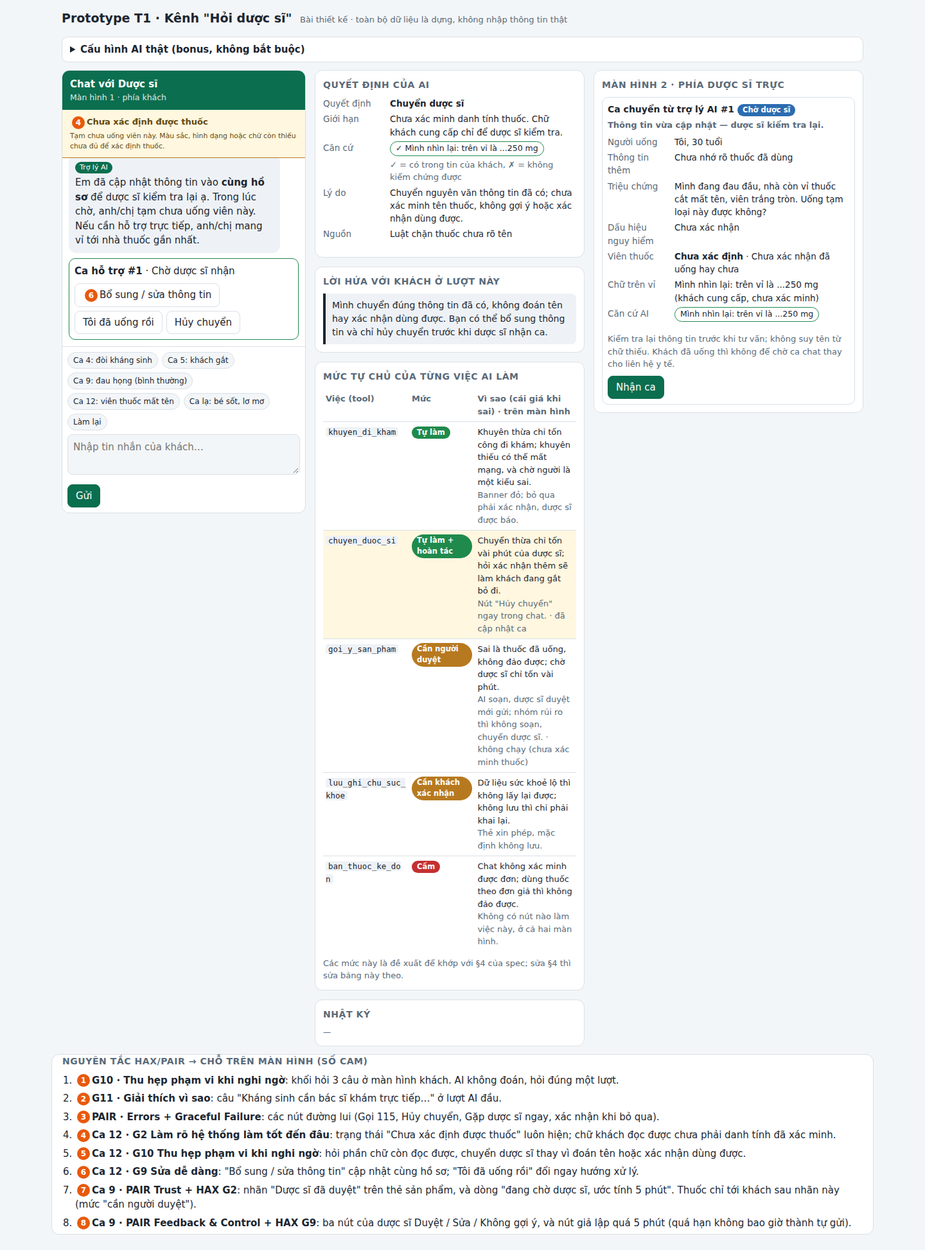
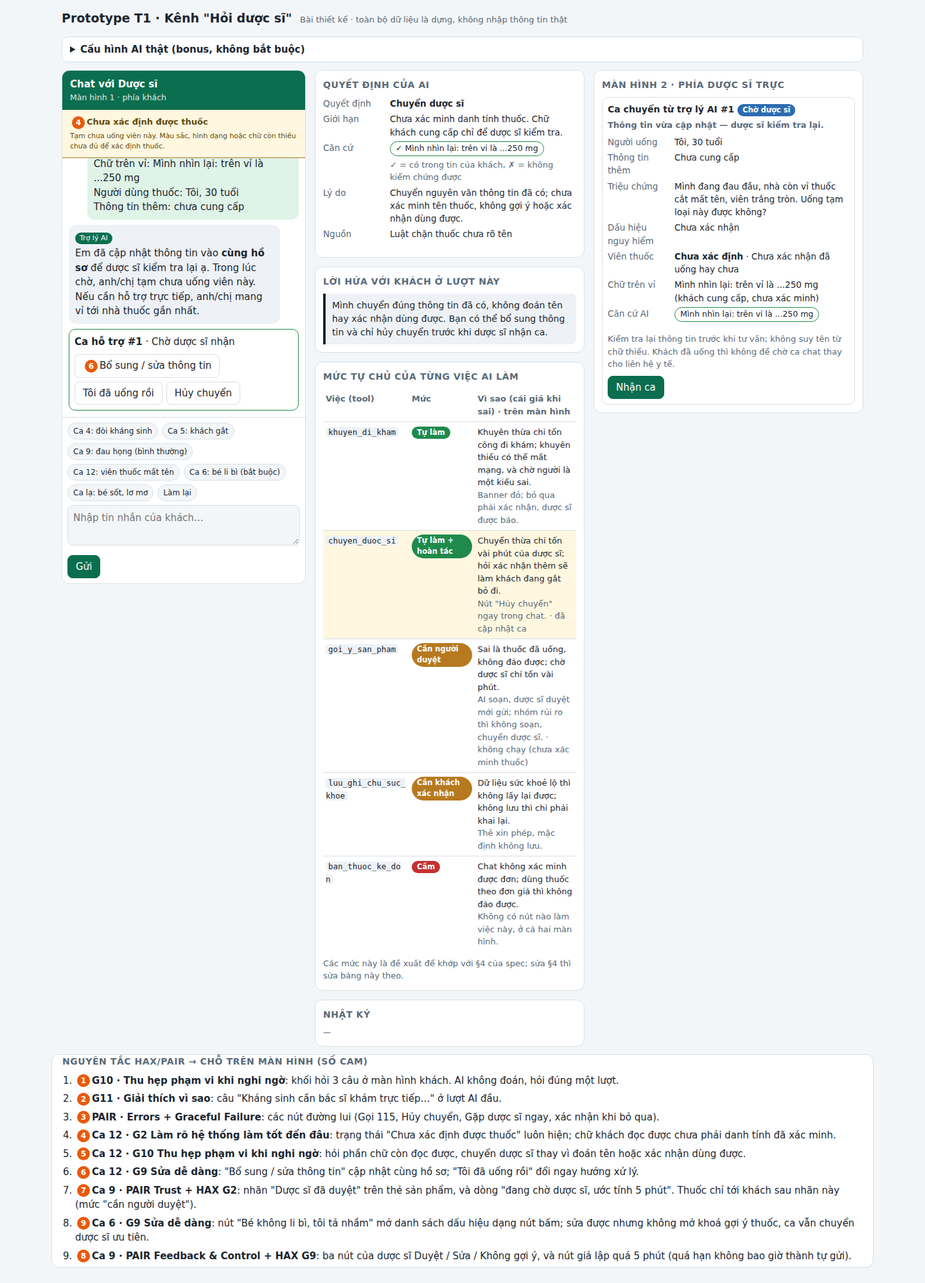
Hoàn thiện bài nộp

Changed region(s): [[0.0625, 0.0, 0.9062, 0.9866], [0.6562, 0.0617, 0.9062, 0.3392], [0.3438, 0.5858, 0.4062, 0.7091]]

diff --git a/prototype/index.html b/prototype/index.html
@@ -23,6 +23,7 @@ main{max-width:1280px;margin:12px auto;padding:0 16px;display:grid;grid-template
 @media(max-width:1000px){main{grid-template-columns:1fr}main.pill-mode{grid-template-columns:minmax(0,1fr)}.pill-mode td{overflow-wrap:anywhere}.pill-mode .lvl{white-space:normal}}
 .card{background:var(--card);border:1px solid var(--line);border-radius:12px;padding:12px}
 .phone{padding:0;overflow:hidden;display:flex;flex-direction:column;height:690px}
+.pill-mode .phone{height:800px}
 .phone .top{background:var(--brand);color:#fff;padding:10px 12px;font-weight:600}
 .phone .top small{display:block;font-weight:400;opacity:.85}
 .pill-notice{padding:9px 12px;background:#fff7df;border-bottom:1px solid var(--amber);color:#624a11;font-size:13px}
@@ -351,6 +352,10 @@ async function decide(stage, fullText){
     }
     if (S.pill.taken) { pillTaken(); return {decision:'handled'}; }
   }
+  if ((!S.pill && DANGER.test(fullText)) || (S.answers && S.answers.danger === 'co')) {
+    const r = guard(decideRules(stage, fullText), stage, fullText, 'Luật ưu tiên dấu hiệu nguy hiểm');
+    renderAI(r); return r;
+  }
   let raw, source;
   if ($('#useAI').checked) {
     try { raw = await callLLM(stage, fullText); source = 'AI thật (' + provider + ')'; }
@@ -416,8 +421,17 @@ function pillHasDanger(text){
   const denied = new RegExp('(?:không|chưa)(?: có| bị| thấy| hề)?\\s+' + sign + '(?:\\s+(?:hay|hoặc|và)\\s+' + sign + ')*', 'gi');
   return DANGER.test(text.replace(denied, ''));
 }
+function pillWhoFromText(text){
+  const explicit = text.match(/người (?:uống|dùng) (?:thuốc )?là\s+(.+)/i); if (explicit) text = explicit[1];
+  const self = /(?<!\p{L})(?:tôi|mình|em)\s+(?:(?:đang|bị|vừa|đã)\s+)?(?:đau|uống)/iu.test(text);
+  const known = whoFromText(text); if (known !== 'chưa rõ') return self ? '' : known;
+  const age = text.match(/(?<!\p{L})(?:tôi|mình|em),?\s+(?:năm nay\s+)?(\d{1,3})\s*tuổi/iu);
+  if (age) return 'Tôi, ' + age[1] + ' tuổi (theo tin khách)';
+  if (self) return 'Người nhắn (theo tin khách, chưa rõ tuổi)';
+  return '';
+}
 function startPill(){
-  if (!S.pill) { S.answers = null; S.pill = {read:'', who:'', notes:'', taken:null, when:'', amount:'', danger:'', caseId:null}; }
+  if (!S.pill) { S.answers = null; S.pill = {read:'', who:pillWhoFromText(S.text1), notes:'', taken:null, when:'', amount:'', danger:'', caseId:null}; }
 }
 function pillNotice(){
   const n = $('#pillNotice'), taken = S.pill.taken === true, danger = !!S.pill.danger;
@@ -523,6 +537,8 @@ function showPillHandoff(){
 function onPillMessage(text){
   lockPill();
   S.text1 += '\nKhách nhắn thêm: ' + text;
+  const who = pillWhoFromText(text);
+  if (who && (!S.pill.who || /người (uống|dùng) (?:thuốc )?là|(?:nhầm|sửa lại|đính chính)/i.test(text))) S.pill.who = who;
   const taken = pillHasTaken(text);
   if (taken) { S.pill.taken = true; pillNotice(); }
   if (pillHasDanger(text)) {

diff --git a/spec.md b/spec.md
@@ -55,7 +55,7 @@ Lớp: ① nguồn sự thật · ② mơ hồ / thiếu thông tin · ③ ngoà
   - Ba nút: **"Gặp dược sĩ ngay"** (nút chính) · "Bổ sung chữ trên vỉ" · "Tôi đã uống rồi". Khách không cần điền form mới được chuyển.
   - Không có thẻ sản phẩm, nút đặt mua hay tên thuốc do AI đoán. Khối quyết định bên cạnh ghi **"Chưa xác minh danh tính thuốc"**, không hiện một con số phần trăm dễ bị hiểu thành độ chắc nhận diện.
 - **Làm gì tiếp:**
-  - **"Gặp dược sĩ ngay":** `chuyen_duoc_si` với thông tin đã có. Chat hiện "Đang chờ dược sĩ nhận", nhắc tạm chưa uống và hướng dẫn mang vỉ tới nhà thuốc nếu cần kiểm tra trực tiếp. Chuyển ca không có nghĩa là thuốc đã được xác định.
+  - **"Gặp dược sĩ ngay":** `chuyen_duoc_si` với thông tin đã có. Chat hiện "Đang chờ dược sĩ nhận", nhắc tạm chưa uống và hướng dẫn mang vỉ tới nhà thuốc nếu cần kiểm tra trực tiếp. Thông tin người uống nói rõ trong tin gốc được ghi vào tóm tắt với nhãn "theo tin khách"; chưa rõ thì giữ "Chưa cung cấp". Khách có thể sửa qua form. Chuyển ca không có nghĩa là thuốc đã được xác định.
   - **"Bổ sung chữ trên vỉ":** form gồm chữ còn đọc được · người dùng thuốc · thuốc đang dùng, dị ứng hoặc thông tin thêm. Các ô không bắt buộc; bỏ trống ghi **"Chưa cung cấp"**, không suy thành "không có". Bấm "Gửi thông tin cho dược sĩ" thì chuyển nguyên văn, không tự điền nốt tên thuốc. Prototype chỉ nhận chữ gõ; cần xem vỉ thì kiểm tra trực tiếp.
   - **"Tôi đã uống rồi":** đổi thẻ nhắc thành hướng dẫn liên hệ y tế ngay, kể cả chưa thấy bất thường (xem lỗi 1 bên dưới). Hỏi thêm giờ uống, lượng đã uống và người dùng thuốc bằng các ô không bắt buộc; không tính liều và không bắt chờ điền xong mới đi tìm hỗ trợ.
   - **Khách sửa thông tin (correction):** "Bổ sung / sửa thông tin" mở form đã điền; gửi lại cập nhật **cùng mã ca**, kèm nhãn "Thông tin vừa cập nhật — dược sĩ kiểm tra lại". Tin nhắn bổ sung và thẻ theo dõi cũng dùng thông tin của ca này; sửa dữ liệu không mở quyền gợi ý thuốc.
@@ -88,42 +88,33 @@ Lớp: ① nguồn sự thật · ② mơ hồ / thiếu thông tin · ③ ngoà
 ### Kịch bản đắt nhất: #6 (bé 2 tuổi sốt 39 độ từ chiều, li bì ngủ suốt, hỏi thuốc hạ sốt)
 
 - **AI nói gì (nguyên văn):**
-  > "Bé 2 tuổi sốt 39 độ mà **li bì, ngủ suốt** là dấu hiệu cần **đưa bé đi khám ngay** ạ, anh/chị đừng chờ trả lời qua chat. Anh/chị gọi 115 hoặc đưa bé tới khoa cấp cứu, khoa nhi gần nhất. Em không gợi ý thuốc hạ sốt lúc này, vì với bé đang li bì, việc cần nhất là bác sĩ khám bé, và thuốc cho bé phải tính theo cân nặng. Nếu bé co giật, khó thở, tím tái hoặc gọi không tỉnh, anh/chị gọi 115 ngay. Em đã báo dược sĩ trực, dược sĩ sẽ nhắn anh/chị trong ít phút."
-- **Người dùng thấy gì:**
-  - **Banner đỏ ở đầu khung chat, không tự đóng:** "Đưa bé đi khám ngay", với nút **"Gọi 115"** (bấm là gọi), **"Tìm cơ sở y tế gần nhất"**, **"Tôi đang đưa bé đi"**.
-  - Dòng căn cứ dưới banner: "Vì sao: trẻ 2 tuổi · sốt 39°C · li bì, ngủ suốt (theo tin anh/chị nhắn)."
-  - Tin AI ở trên, nhãn "Trợ lý AI". Không có thẻ sản phẩm, không có nút đặt mua.
-  - Nút nhỏ **"Bé không li bì, tôi tả nhầm"** và nút "Gặp dược sĩ ngay" (đã được chuyển sẵn).
+  > "⚠ Có dấu hiệu nguy hiểm. Anh/chị hãy đến cơ sở y tế gần nhất hoặc gọi cấp cứu 115 ngay. Trong trường hợp này em không gợi ý thuốc và không để anh/chị chờ trong hàng đợi ạ."
+- **Người dùng thấy gì:** khối khuyến cáo đỏ trong chat, dòng "Dựa vào" trích **"li bì"** từ tin khách; không có sản phẩm hay nút đặt mua. Các nút: "Gọi 115 (mô phỏng)" · "Tôi sẽ đi khám ngay" · "Bỏ qua" · "Tôi đang đưa bé đi" · **⑨ "Bé không li bì, tôi tả nhầm"**. Bên cạnh, màn hình dược sĩ có ca khẩn **"Không vào hàng chờ"**.
 - **Làm gì tiếp:**
-  - **"Tôi đang đưa bé đi":** banner thu gọn thành một dải đỏ nhỏ (vẫn còn nút Gọi 115). Dược sĩ nhắn hỏi thăm trong ca ưu tiên.
-  - **Khách bấm đóng banner / "Bỏ qua":** phải qua một bước xác nhận nói rõ hậu quả ("Bé đang có dấu hiệu cần khám ngay, anh/chị chắc chắn chưa đưa bé đi?"). Vẫn bỏ qua thì dược sĩ được báo ca "bỏ qua khuyến cáo" và nhắn hỏi thăm sau 10 phút (giả định nhóm, giống §3 #4 lỗi 1).
-  - **"Bé không li bì, tôi tả nhầm" (correction):** banner **không** biến mất, chỉ đổi thành danh sách dấu hiệu cần đi khám để khách tự đối chiếu. AI vẫn không gợi ý thuốc (trẻ nhỏ, §1 và §4 luật 2), ca chuyển dược sĩ dạng ưu tiên kèm dòng "khách sửa lại: không li bì", để dược sĩ hỏi lại trực tiếp.
-  - **Khách hỏi tiếp "vậy cho bé uống gì trước khi đi":** AI không nói tên thuốc hay liều; trả lời "dược sĩ đang nhắn anh/chị ngay đây; việc trước nhất là đưa bé đi khám", và đẩy câu hỏi vào ca của dược sĩ.
-  - **Khách không làm gì:** banner vẫn đứng ở đầu chat; dược sĩ đã nhận ca ưu tiên từ đầu nên vẫn có người nhắn.
-- **Ai được báo, sau bao lâu:** dược sĩ trực online, **ngay khi banner hiện** (song song, không đợi khách bấm gì). Ca đứng **đầu hàng, tách khỏi hàng chờ chung**, dược sĩ thấy: "TRẺ 2 TUỔI · sốt 39°C từ chiều · li bì · đã hiện khuyến cáo đi khám · khách đã bấm: …". Quá 3 phút (giả định nhóm) chưa có dược sĩ nhận: báo dược sĩ trưởng ca. Dù không ai nhận, **khuyến cáo đi khám đã hiện từ giây đầu**, không phụ thuộc vào việc có người trực.
+  - **"Gọi 115 (mô phỏng)":** hiện thông báo mô phỏng, không gọi thật. "Tôi sẽ đi khám ngay" hiện lời nhắn xác nhận; "Tôi đang đưa bé đi" thêm ghi chú cho dược sĩ. Khuyến cáo và nút gọi vẫn còn, không tự đóng hay thu gọn.
+  - **"Bỏ qua":** phải xác nhận lại. "Quay lại" không tạo ca theo dõi; "Vẫn bỏ qua" báo dược sĩ, kèm nút nhắn hỏi thăm mô phỏng. Mốc 10 phút là mục tiêu của nhóm, không có bộ đếm tự nhắn trong prototype.
+  - **"Bé không li bì, tôi tả nhầm":** hiện 6 dấu hiệu dạng nút để khách đối chiếu. Chọn một dấu hiệu thì giữ khuyến cáo. Chọn "Không có dấu hiệu nào" thì thêm ghi chú sửa thông tin và chuyển dược sĩ **ưu tiên**, vẫn không gợi ý thuốc. Tin gốc và khuyến cáo được giữ để người hỗ trợ đối chiếu.
+  - **Khách không làm gì:** khuyến cáo và ca khẩn vẫn còn. Báo ca không có nghĩa dược sĩ đã nhận hay sẽ trả lời trong vài phút. Prototype chưa có hội thoại riêng cho câu hỏi tiếp "uống gì trước khi đi"; nhóm không coi việc xử lý tin nối tiếp của #6 là đã hoàn thiện.
+- **Ai được báo, sau bao lâu:** ngay khi hiện khuyến cáo, màn hình dược sĩ có ca khẩn kèm "Trẻ 2 tuổi (theo tin khách)", dấu hiệu "li bì", tin gốc và trạng thái chưa hỏi thuốc đã dùng vì cần khuyên đi khám trước. Khách bấm "đang đưa bé đi", sửa thông tin hoặc bỏ qua thì có ghi chú/ca theo dõi tương ứng. Đây là mô phỏng cùng trang, không gửi thông báo đến người trực thật; khuyến cáo không phụ thuộc việc có người nhận ca.
 - **Quyết định: hỏi lại / trả lời kèm giới hạn / dừng và chuyển người**
-  - **Chọn:** **dừng và chuyển người ngay**, nhưng "người" ở đây là **cơ sở y tế** (`khuyen_di_kham`, mức tự làm ở §4), dược sĩ được báo song song. Không hỏi thêm câu nào trước khi hiện khuyến cáo.
-  - **Vì sao (cost-of-error):** tin đã có đủ dấu hiệu (trẻ nhỏ + sốt cao + li bì). Mỗi câu hỏi thêm là thêm phút trễ cho một ca có thể đang nặng. Khuyên thừa thì phụ huynh mất một chuyến đi khám; khuyên chậm thì bé có thể nặng thêm, không đảo được. Đây cũng đúng lời khách ở track: "nói ngay là được hay không được, đừng bắt mình chờ".
-  - **Loại phương án 1, hỏi lại trước** (bé nặng bao nhiêu kg, đã uống thuốc gì chưa): thông tin có ích cho dược sĩ, nhưng hỏi trước khuyến cáo là bắt ca nguy hiểm chờ. Dược sĩ hỏi sau, khi khách đã trên đường đi.
-  - **Loại phương án 2, trả lời kèm giới hạn** (gợi ý siro hạ sốt, kèm "nếu không đỡ thì đưa bé đi khám"): gợi ý thuốc không đảo được, sai liều với trẻ nhỏ; tệ hơn, nó khiến phụ huynh **yên tâm ở nhà chờ thuốc ngấm**, chính là cái trễ nguy hiểm.
-  - **Loại phương án 3, chỉ chuyển dược sĩ như ca thường:** ca nằm trong hàng chờ chung, trái với kết quả của lát cắt ("ca nguy hiểm không nằm trong hàng chờ"), và lúc nửa đêm có thể không ai nhận.
-  - **Giới hạn của lựa chọn:** chỉ đúng khi nhận ra dấu hiệu nguy hiểm. Nếu phụ huynh tả bằng lời khác, xem "lỗi sửa câu chữ không cứu được" bên dưới.
-- **Loại lỗi: lỗi ngữ cảnh, và một biến thể lỗi hệ thống.**
-  - **Lỗi ngữ cảnh (nếu AI gợi ý siro):** `goi_y_san_pham` chạy đúng thiết kế, siro hạ sốt cũng đúng là "thuốc hạ sốt cho bé", nhưng sai với tình huống bé đang li bì. Khách không sai: họ hỏi đúng câu họ nghĩ mình cần.
-    - **Cách nói:** không nói "em bị lỗi"; nói thẳng tình huống ("li bì là dấu hiệu cần đi khám ngay") và vì sao không gợi ý thuốc.
-    - **Cách sửa:** sửa thiết kế, không chỉ câu chữ: luật từ khoá nguy hiểm ở code (§4 luật 3) chạy trước AI, và trẻ nhỏ thì không bao giờ gọi `soan_goi_y` (§4 luật 2).
-  - **Lỗi hệ thống (nếu chuyển dược sĩ thất bại, hoặc nửa đêm không có dược sĩ trực):** đây là hệ thống hỏng, không phải AI hiểu sai.
-    - **Cách nói:** nói thật, không hứa thay: "Hiện em chưa kết nối được dược sĩ. Anh/chị đừng chờ, hãy đưa bé đi khám ngay hoặc gọi 115." **Không** nói "dược sĩ sẽ nhắn trong ít phút" khi chưa chuyển được.
-    - **Cách sửa:** sửa vận hành: báo dược sĩ trưởng ca, và khuyến cáo đi khám không bao giờ phụ thuộc vào việc chuyển thành công.
-  - **So với #12:** #12 là lỗi hệ thống kiểu AI bịa căn cứ, sửa bằng cách lấy quyền kết luận khỏi AI. #6 là lỗi ngữ cảnh, sửa bằng luật chạy trước AI; còn lỗi hệ thống ở #6 là hỏng hạ tầng chuyển người, sửa bằng đường lui không cần người.
+  - **Chọn:** dừng gợi ý và hướng dẫn tới **cơ sở y tế** bằng `khuyen_di_kham`; báo dược sĩ song song. Luật nguy hiểm chạy trước lời gọi AI, không hỏi thêm hoặc chờ API trước khuyến cáo.
+  - **Vì sao (cost-of-error):** trẻ nhỏ + sốt cao + li bì đã đủ để ưu tiên tìm hỗ trợ y tế. Hỏi thêm hay chờ duyệt làm chậm ca có thể đang nặng; khuyên thừa mất một chuyến đi khám, khuyên chậm có thể gây hại không đảo được.
+  - **Loại phương án 1, hỏi lại trước:** cân nặng, thuốc đã dùng có ích cho người hỗ trợ, nhưng không phải điều kiện để hiện khuyến cáo.
+  - **Loại phương án 2, gợi ý siro kèm cảnh báo:** có thể khiến phụ huynh ở nhà chờ thuốc ngấm; thuốc đã uống không đảo được và AI không biết đủ thông tin để nói liều.
+  - **Loại phương án 3, chỉ chuyển dược sĩ như ca thường:** đưa ca nguy hiểm vào hàng chờ chung, trái kết quả của lát cắt.
+  - **Giới hạn:** luật từ khóa không hiểu mọi cách mô tả hoặc phủ định. Cần đọc giới hạn ở §6; prototype không phải hệ thống đánh giá y tế đầy đủ.
+- **Loại lỗi: lỗi ngữ cảnh; có biến thể lỗi hệ thống.**
+  - **Ngữ cảnh:** gợi ý thuốc hạ sốt có thể trả lời đúng câu hỏi mua thuốc nhưng sai với tình huống bé li bì. Khách không sai khi hỏi. Cách nói nêu tình huống và hướng đi khám; cách sửa là ưu tiên luật nguy hiểm trước gợi ý và trước AI.
+  - **Hệ thống:** nếu chuyển người thất bại, không được hứa đã có người nhận. Hướng dẫn đi khám phải hiện độc lập với việc chuyển. Prototype chỉ mô phỏng ca được báo; không có backend hoặc cơ chế báo trưởng ca sau 3 phút.
 - **Nguyên tắc HAX/PAIR (mỗi cái trỏ vào một chỗ cụ thể):**
-  - **G11, Giải thích vì sao** → câu "Em không gợi ý thuốc hạ sốt lúc này, vì với bé đang li bì, việc cần nhất là bác sĩ khám bé, và thuốc cho bé phải tính theo cân nặng", cùng dòng "Vì sao: trẻ 2 tuổi · sốt 39°C · li bì" dưới banner. Phụ huynh hiểu vì sao không được bán thuốc, không thấy bị từ chối vô cớ.
-  - **G9, Sửa dễ dàng** → nút "Bé không li bì, tôi tả nhầm". Khách sửa được thông tin sai của chính mình, nhưng việc sửa chỉ dẫn tới dược sĩ hỏi lại, không mở khoá gợi ý thuốc.
-  - **PAIR, Errors + Graceful Failure** → banner không tự đóng với nút "Gọi 115", bước xác nhận khi bỏ qua, và câu "Hiện em chưa kết nối được dược sĩ…" khi chuyển thất bại. Mỗi đường hỏng đều còn một đường lui không phụ thuộc vào AI hay dược sĩ.
+  - **G11, Giải thích vì sao** → dòng **② "Dựa vào: … li bì …"** dưới khuyến cáo và câu "em không gợi ý thuốc và không để anh/chị chờ trong hàng đợi".
+  - **G9, Sửa dễ dàng** → nút **⑨ "Bé không li bì, tôi tả nhầm"**, danh sách dấu hiệu và ghi chú sửa ở phía dược sĩ. Sửa được thông tin nhưng không mở quyền gợi ý thuốc cho trẻ nhỏ.
+  - **PAIR, Errors + Graceful Failure** → nút **③ "Gọi 115 (mô phỏng)"**, xác nhận khi bỏ qua và ca khẩn báo song song. Khách có đường tìm hỗ trợ y tế mà không chờ người nhận chat.
 - **Lỗi sửa câu chữ không cứu được, và thiết kế cứu nó:**
-  - **Lỗi: phụ huynh tả dấu hiệu nguy hiểm mà không dùng từ khoá** ("bé cứ nằm im, gọi mãi mới mở mắt", "bé không chịu bú"). Câu chữ của AI hay đến đâu cũng vô ích nếu nó không nhận ra đây là ca nguy hiểm; luật từ khoá cũng có thể sót.
-  - **Thiết kế cứu:** khi người uống là **trẻ dưới 5 tuổi** (hoặc thuộc nhóm rủi ro), thứ hiện đầu tiên là **danh sách dấu hiệu dạng nút bấm**, viết bằng lời thường: "gọi khó dậy, li bì" · "thở nhanh, thở rút lõm ngực" · "co giật" · "bỏ bú, không uống được" · "tím tái" · "sốt từ 39 độ trở lên" · "Không có dấu hiệu nào". Bấm bất kỳ dấu hiệu nào thì `khuyen_di_kham` ngay. Khách nhìn danh sách và tự nhận ra, không phụ thuộc vào cách họ tả hay vào AI hiểu.
-  - **Phương án đã loại:** (a) mở rộng danh sách từ khoá mãi: luôn sót cách nói mới, và càng rộng càng báo động nhầm; (b) để AI tự đánh giá mức nặng từ mô tả: đó chính là chỗ không tin được; (c) hỏi dạng câu mở "bé có dấu hiệu gì nguy hiểm không?": phụ huynh không biết dấu hiệu nào là nguy hiểm.
+  - **Lỗi:** phụ huynh tả "bé cứ nằm im, gọi mãi mới mở mắt" nhưng không dùng từ khóa mà prototype nhận ra. Câu trả lời hay cũng không cứu được nếu hệ thống không nhận biết tình huống.
+  - **Thiết kế cứu đã dựng:** đường sửa **⑨** đưa ra 6 dấu hiệu bằng lời thường để khách chọn, thay vì bắt họ tự biết thuật ngữ "nguy hiểm". Bấm không có dấu hiệu vẫn chuyển người, không tự kết luận trẻ an toàn.
+  - **Phần còn thiếu:** danh sách hiện qua nút sửa ở ca đã được nhận diện, chưa hiện đầu tiên cho mọi tin về trẻ nhỏ. Vì vậy ví dụ diễn đạt trên vẫn có thể vào form chung; đây là giới hạn được ghi ở §6, không nhận là đã chặn hết.
+  - **Phương án đã loại:** kéo dài danh sách từ khóa mãi vẫn có thể sót; để AI tự đánh giá mức nặng lại phụ thuộc đúng chỗ dễ sai. Danh sách cho khách đối chiếu và đường chuyển người là cách giảm phụ thuộc đó.
 
 ### Ca bổ sung: #4 (suýt được chọn ở §2; dùng làm luồng mẫu "hỏi một lượt" trong prototype)
 
@@ -214,9 +205,9 @@ Mức nào cũng có giá:
 - **Công cụ:** một file HTML + JavaScript, dựng cùng coding agent.
 - **Phần mock:** toàn bộ dữ liệu là dựng; màn hình dược sĩ là mô phỏng (cùng trang, không có backend); nút "Gọi 115" chỉ hiện thông báo mô phỏng.
 - **Có lời gọi AI thật không:** có, tuỳ chọn (mục "Cấu hình AI thật", mặc định Mistral `mistral-small-latest`, có thể đổi sang Groq hoặc OpenRouter). AI thật **chỉ phân loại** một trong tám nhãn (`ask` / `unknown_pill` / `phan_ung` / `luu_ghi_chu` / `no_source` / `soan_goi_y` / `khuyen_di_kham` / `chuyen_duoc_si`) kèm độ chắc và căn cứ trích nguyên văn; **câu chữ khách thấy là mẫu đã duyệt**, không do AI viết (khớp §3: mẫu đã duyệt cho #12). Kết quả AI luôn qua chốt chặn ở code: căn cứ không có trong tin khách thì hạ độ chắc; có dấu hiệu nguy hiểm thì luật cứng đè lên AI; độ chắc dưới 60% ở bước hỏi sàng lọc thì chuyển dược sĩ; riêng #12 luôn giữ giới hạn thuốc chưa xác minh và cho chuyển người ngay. Ca #12 đã uống hoặc có dấu hiệu nguy hiểm không chờ API. AI lỗi hoặc không bật thì dùng luật mô phỏng. Key chỉ nằm trong bộ nhớ tab, không commit.
-- **Ảnh** (prototype có số cam 1–8; các ảnh dưới minh họa số 1–6, chữ cái xanh A–D là chú thích khu vực ở ảnh 2):
+- **Ảnh** (số cam đối chiếu với bảng bên dưới; chữ cái xanh A–D đánh dấu khu vực trong ảnh 2):
   - Ảnh 1, ca #12: [trạng thái ban đầu](prototype/case12-screening.png). Ảnh 1b: [sửa thông tin trên cùng hồ sơ](prototype/case12-handoff.png).
-  - Ảnh 2, ca #6: `prototype/anh-2-ca6.png` (ảnh bản trước; cần chụp lại để thấy thêm nút ⑨ "Bé không li bì, tôi tả nhầm" và "Tôi đang đưa bé đi").
+  - Ảnh 2, ca #6: [khuyến cáo và ca khẩn](prototype/anh-2-ca6.png), gồm nút ⑨ "Bé không li bì, tôi tả nhầm", "Tôi đang đưa bé đi" và tóm tắt cho dược sĩ.
   - Ảnh 3, lời gọi AI thật: [ca #12 với Mistral](prototype/anh-3-ai-that.png), model `mistral-small-latest`. Ảnh ghi **Nguồn: AI thật (mistral)**, nhãn `unknown_pill`, độ chắc 98% và 3 căn cứ có ✓; không lộ key. Đây là ảnh bản trước; UX #12 hiện tại dùng trạng thái chưa xác minh thay phần trăm. Kiểm thử hiện tại dùng phản hồi AI mô phỏng.
 
 | Số | Ảnh | Thể hiện gì | Nguyên tắc HAX/PAIR | Mức tự chủ |
@@ -234,7 +225,7 @@ Mức nào cũng có giá:
 | **2** | — | Ca #4: câu "Kháng sinh cần bác sĩ khám…"; mọi luồng: dòng "Dựa vào: …" dưới tin AI | **G11** Giải thích vì sao | `ban_thuoc_ke_don` cấm, không có nút |
 | **7** | — | Ca #9: thẻ sản phẩm chỉ hiện sau khi dược sĩ duyệt, có nhãn "Dược sĩ đã duyệt" | **PAIR Trust** | `goi_y_san_pham` **cần dược sĩ duyệt** |
 | **8** | — | Màn hình dược sĩ ca #9: Duyệt và gửi / Sửa / Không gợi ý; giả lập quá 5 phút (không tự gửi) | **PAIR Feedback & Control** | Người duyệt thấy tóm tắt trước khi bấm |
-| **9** | 2 (cần chụp lại) | Ca #6: "Bé không li bì, tôi tả nhầm" mở danh sách 6 dấu hiệu dạng nút; "Không có dấu hiệu nào" chuyển dược sĩ **ưu tiên**, banner vẫn giữ, vẫn không gợi ý thuốc | **G9** Sửa dễ dàng (khớp §3 #6) | `khuyen_di_kham` tự làm; `goi_y_san_pham` bị chặn |
+| **9** | 2 | Ca #6: "Bé không li bì, tôi tả nhầm" mở danh sách 6 dấu hiệu dạng nút; "Không có dấu hiệu nào" chuyển dược sĩ **ưu tiên**, banner vẫn giữ, vẫn không gợi ý thuốc | **G9** Sửa dễ dàng (khớp §3 #6) | `khuyen_di_kham` tự làm; `goi_y_san_pham` bị chặn |
 
 **Mức tự chủ trên màn hình, đối chiếu §4:**
 - **Tự làm có hoàn tác:** `chuyen_duoc_si` → khối "Đã chuyển dược sĩ · Tự làm" với nút "Hủy chuyển". Riêng #12 phân biệt "Chờ dược sĩ nhận" và "Dược sĩ đã nhận"; chỉ hủy khi chưa nhận.
@@ -266,13 +257,24 @@ Mức nào cũng có giá:
 | Tiêu chí | #12 (viên thuốc mất tên) | #6 (bé 2 tuổi sốt, lơ mơ) |
 |---|---|---|
 | 1. Không có thuốc khi chưa đủ căn cứ | **Pass**: không có tên thuốc, không nút đặt (ảnh 1) | **Pass**: không thẻ sản phẩm, `goi_y_san_pham` "không chạy (chặn)" (ảnh 2) |
-| 2. Ca nguy hiểm không chờ | **Pass** trên các nhánh đã thử: tin gốc không báo động nhầm; khi khách bổ sung dấu hiệu nguy hiểm, khuyến cáo và ca khẩn hiện ngay | **Pass**: banner + "Gọi 115" ở lượt đầu, dược sĩ thấy "Ca khẩn · Không vào hàng chờ" (ảnh 2) |
-| 3. Chuyển người không mất thông tin | **Fail** ở nhánh chuyển ngay theo tiêu chí điền đủ trường: thông tin vẫn có trong tin gốc nhưng chưa tự điền trường người uống. Nhánh gửi/sửa form đã chuyển đúng dữ liệu, cùng mã ca; bỏ trống là "Chưa cung cấp", không còn tự ghi khách từ chối bị hỏi | **Pass**: tóm tắt ghi "Người uống: Trẻ 2 tuổi (theo tin khách)", "Dấu hiệu nguy hiểm: Có: \"li bì\" (trong tin khách)", "Đã dùng: chưa hỏi (ca khẩn: khuyên đi khám trước)"; khách sửa "tả nhầm" thì ca ưu tiên ghi "Khách sửa lại: không li bì" |
+| 2. Ca nguy hiểm không chờ | **Pass** trên các nhánh đã thử: tin gốc không báo động nhầm; khi khách bổ sung dấu hiệu nguy hiểm, khuyến cáo và ca khẩn hiện ngay | **Pass trên ca mẫu**: khuyến cáo và ca khẩn hiện trước lời gọi AI; không gọi API khi tin đã có dấu hiệu nguy hiểm (ảnh 2) |
+| 3. Chuyển người không mất thông tin | **Pass trên các ca đã thử**: chuyển ngay ghi người nhắn/tuổi hoặc người nhà được nêu rõ; form cho sửa cùng ca. Không đủ căn cứ thì ghi "Chưa cung cấp", giữ tin gốc để dược sĩ xác nhận | **Pass**: tóm tắt ghi "Người uống: Trẻ 2 tuổi (theo tin khách)", "Dấu hiệu nguy hiểm: Có: \"li bì\" (trong tin khách)", "Đã dùng: chưa hỏi (ca khẩn: khuyên đi khám trước)"; khách sửa "tả nhầm" thì ca ưu tiên ghi "Khách sửa lại: không li bì" |
 
 **Lỗi còn lại:**
-- Ca #12: nhánh chuyển ngay chưa tự trích người uống vào trường riêng, dược sĩ cần đọc tin gốc để xác nhận. Ca #6 đã sửa: tóm tắt lấy người uống và dấu hiệu nguy hiểm từ tin khách, không còn dòng mặc định "khách không muốn bị hỏi lại".
-- Ca #6 đã có nút "Tôi đang đưa bé đi" và "Bé không li bì, tôi tả nhầm" (G9, số ⑨) kèm danh sách 6 dấu hiệu dạng nút. Còn thiếu so với §3 #6: danh sách dấu hiệu chỉ hiện khi khách bấm "tả nhầm", chưa hiện **đầu tiên** cho mọi tin về trẻ dưới 5 tuổi; nút "Tìm cơ sở y tế gần nhất" chưa có. Luật từ khoá chỉ bắt được khi phụ huynh dùng đúng từ; tả bằng lời khác vẫn có thể trượt (§4).
+- Ca #12 đã lấy thông tin người uống được nêu rõ khi chuyển ngay và cho sửa trên cùng hồ sơ. Cách nói ngoài mẫu hoặc nhiều người trong một tin vẫn cần dược sĩ đối chiếu tin gốc; không suy tuổi hay thông tin chưa được cung cấp.
+- Ca #6: khuyến cáo không chờ API; tóm tắt và nút sửa ⑨ đã dựng. Danh sách dấu hiệu vẫn chỉ hiện qua nút sửa, chưa hiện đầu tiên cho mọi tin về trẻ nhỏ. Cách nói như "gọi mãi mới mở mắt" có thể chưa được nhận ra; luồng chat nối tiếp sau khuyến cáo cũng cần hoàn thiện.
 - Sàng lọc chung đã thực hiện luật 2 ở §4 trên nội dung tin: tin có mang thai, cho con bú, trẻ nhỏ, người cao tuổi, thuốc kê đơn… thì không tới bước soạn gợi ý dù form giữ "Tôi". Giới hạn: đây là danh sách từ khoá, cách nói ngoài danh sách (ví dụ "mình đang trong 3 tháng đầu", "người yêu mình bị…") có thể chưa bắt được; lúc đó vẫn còn bước dược sĩ duyệt trước khi gửi.
 
 ## §7. Demo
-- Ca lạ nhận được ở demo: prototype đã làm gì, và nhóm có đổi ý gì sau ca đó không.
+
+**Chạy thử UX nội bộ trên dữ liệu dựng**, không phải kết quả demo trước giảng viên. Các ca dưới đây được nhập vào prototype và bấm qua các bước:
+
+| Ca thử thêm | Prototype xử lý | Kết quả |
+|---|---|---|
+| Bố 67 tuổi tê nửa người, nói ngọng, đồng thời hỏi mua máy đo huyết áp | Khuyến cáo đi khám và báo ca khẩn; không gợi ý máy đo | Đúng thứ tự ưu tiên |
+| Người đang mang thai 8 tuần đau họng, form vẫn chọn "Tôi" | Chuyển dược sĩ, không soạn sản phẩm | Giữ giới hạn dù lựa chọn trên form chưa đủ |
+| Người nhắn sổ mũi một ngày, chưa dùng thuốc | Soạn nước muối xịt mũi cho dược sĩ duyệt; chưa gửi thẻ sản phẩm | Người duyệt vẫn quyết định bước gửi |
+| Người nhắn 30 tuổi đau đầu, hỏi uống viên thuốc mất tên; sau đó sửa người uống thành mẹ 65 tuổi | Chuyển ngay có người uống/tuổi theo tin khách; sửa cập nhật cùng ca | Thông tin mới tới dược sĩ, không đoán tên thuốc |
+| Tin nhắc cả người đang đau đầu và thuốc do mẹ đưa, chưa rõ ai sẽ uống | Ghi "Chưa cung cấp" ở trường người uống, giữ nguyên tin gốc | Không đoán người uống từ câu mơ hồ |
+
+**Điều rút ra:** ca nguy hiểm phải xử lý trước API; thông tin rõ được đưa vào tóm tắt, thông tin mơ hồ phải giữ để người hỗ trợ xác nhận. Đã sửa hai điểm này và thử lại nhánh nhận/sửa ca #12, correction #6, các nhánh duyệt #9. Chưa thấy lỗi JavaScript ở các lượt thử này. Giới hạn còn lại ghi ở §6; kết quả demo trực tiếp sẽ bổ sung sau khi thực hiện.
